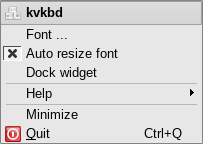
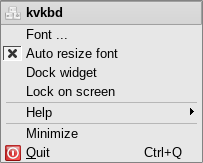
Added kvkbd Lock on screen Patches for en_GB translations Preferred formatting of help files tqca-tls cmake update

diff --git a/README.md b/README.md
@@ -121,7 +121,7 @@ Includes:
 
 [3] The Misc directory contains SlackBuilds for software that might already be installed from other sources. Please check because any misc builds selected here could overwrite them.
 
-[4] The README for a native build for Raspberry Pi3 [[README-Raspberry-Pi3.md](./README-Raspberry-Pi3.md)] is now rather dated and cross compiling is preferred.
+[4] The README for a native build for Raspberry Pi3 [[README-Raspberry-Pi3.md](./README-Raspberry-Pi3.md)] is now rather dated and cross compiling is a better option.
 
 [5] Building the kalzium equation solver needs ocaml and facile installed. They will be built, packaged, and installed during the tdeedu build if the source archives are pre-downloaded to the 'src' directory.  
 https://github.com/ocaml/ocaml/archive/4.05.0.tar.gz  
